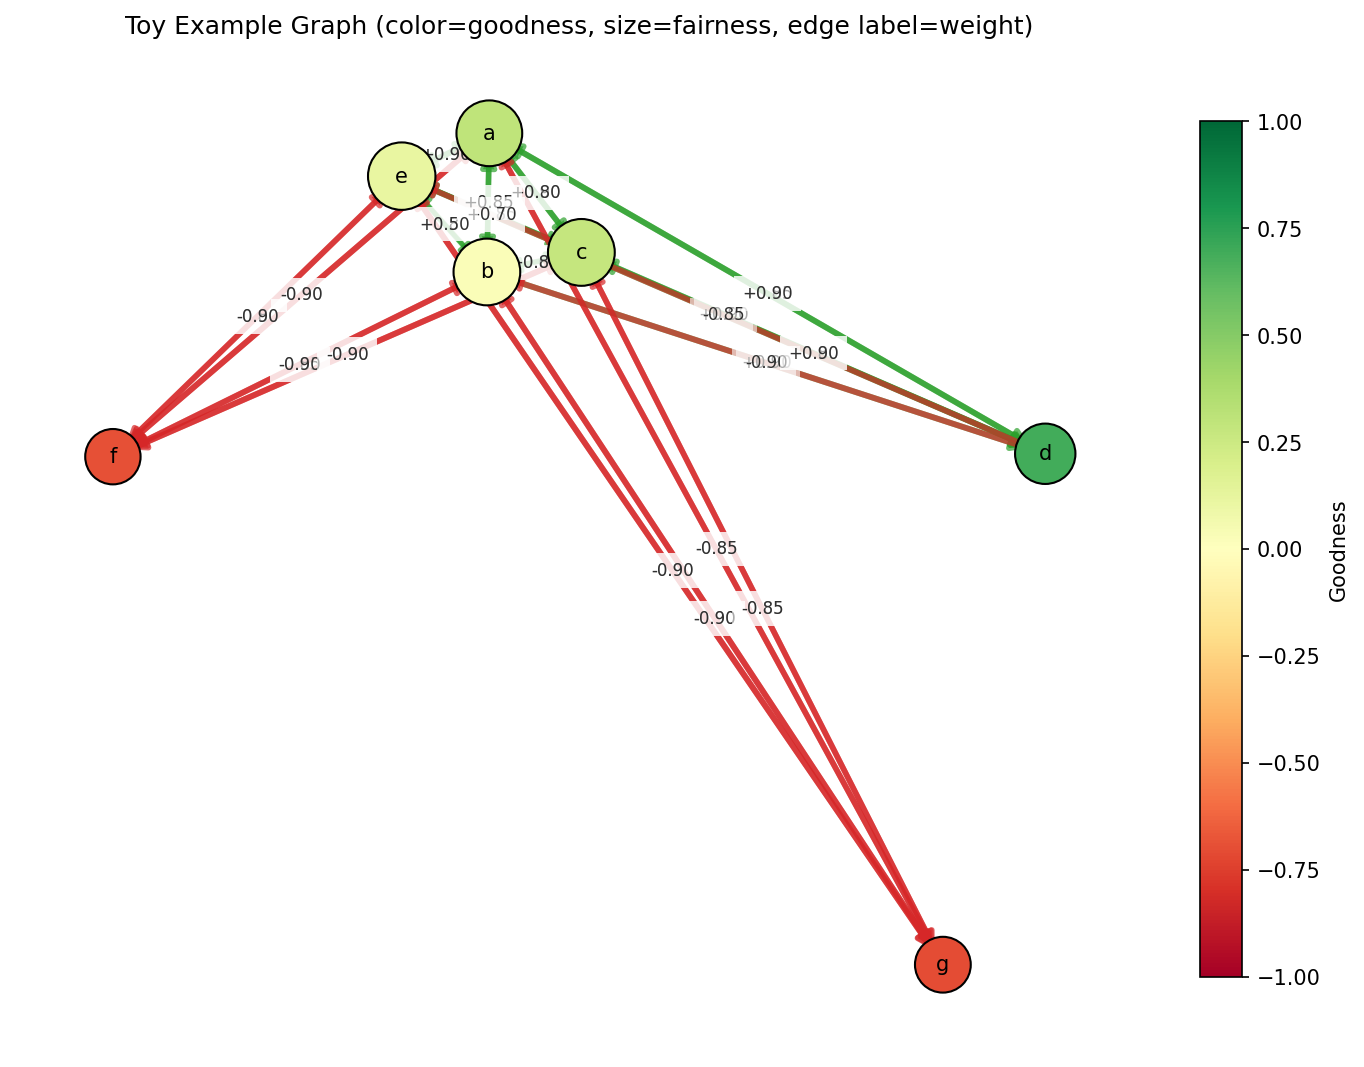
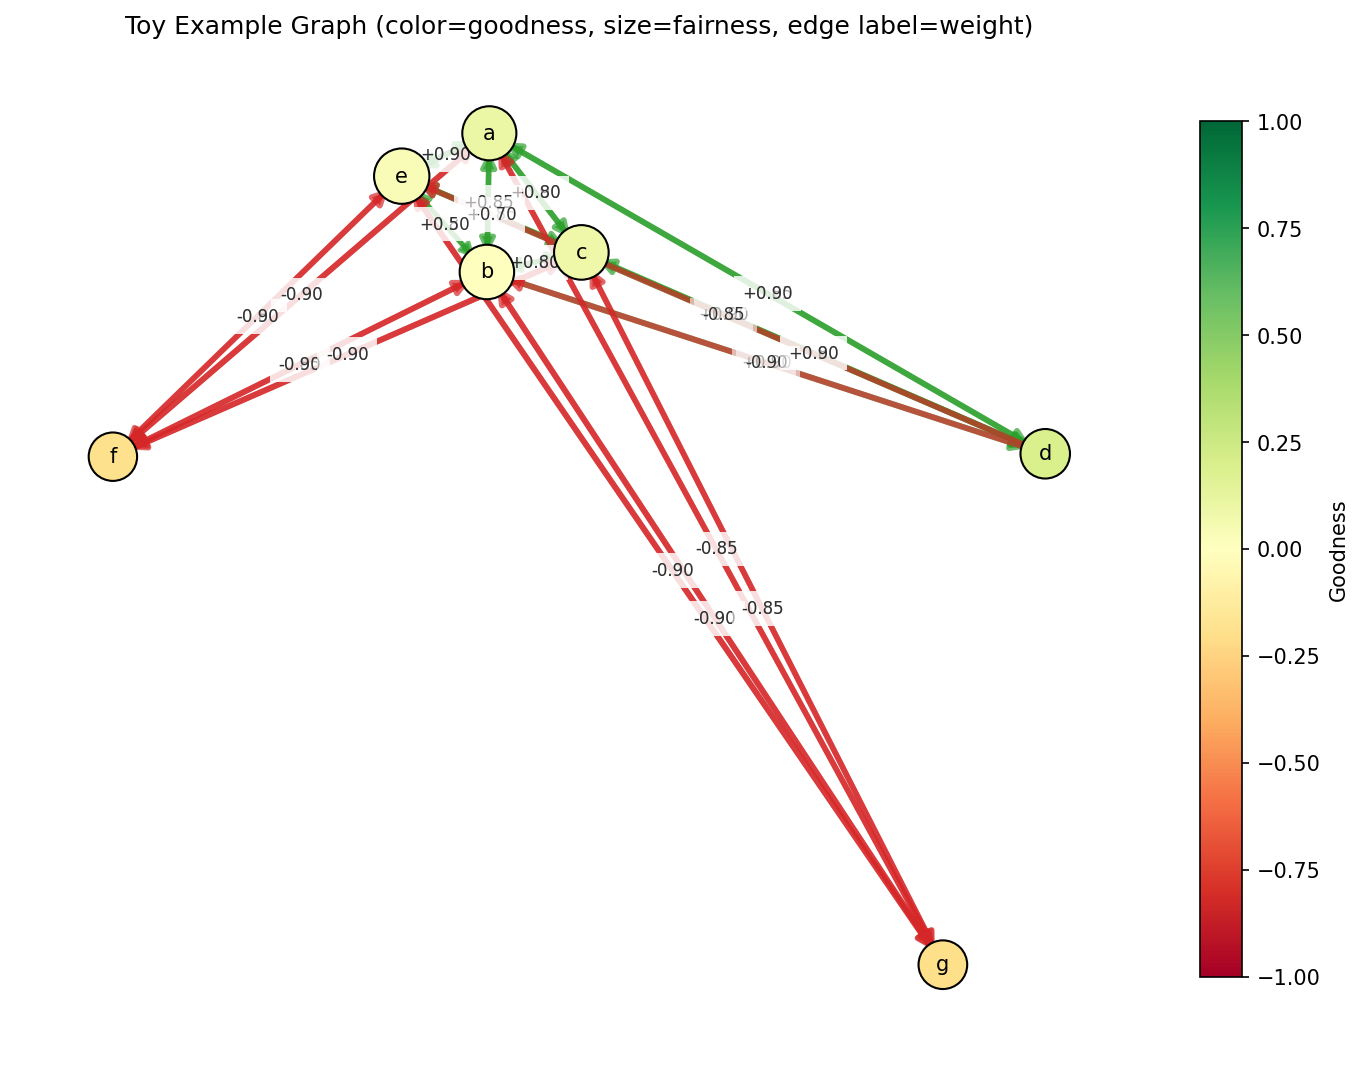
README.mdにweightedアルゴリズム用のtoy exampleの時系列属性を追加し、fga.pyでの可視化機能を強化。テストケースを更新し、時系列ラベルを表示する機能を実装。

diff --git a/fga/fga.py b/fga/fga.py
@@ -123,11 +123,13 @@ def build_toy_visualization_output_path(
     algorithm: str,
     eps: float,
     max_iter: int,
+    temporal: bool = False,
     output_dir: Optional[str] = None,
 ) -> Path:
     """Build an output path for toy graph visualization."""
     base_dir = Path(output_dir) if output_dir is not None else Path(__file__).resolve().parent
-    file_name = f"toy-example_{algorithm}_eps-{eps:g}_max-iter-{max_iter}_graph.png"
+    temporal_suffix = "_temporal" if temporal else ""
+    file_name = f"toy-example_{algorithm}_eps-{eps:g}_max-iter-{max_iter}{temporal_suffix}_graph.png"
     return base_dir / file_name
 
 
@@ -136,6 +138,7 @@ def save_toy_graph_visualization(
     fairness: Dict,
     goodness: Dict,
     output_path: Path,
+    show_time_labels: bool = False,
 ) -> Path:
     """Save a toy-example graph plot with node color=goodness and size=fairness."""
     try:
@@ -180,7 +183,13 @@ def save_toy_graph_visualization(
         edgecolors="black",
     )
     nx.draw_networkx_labels(G, pos, ax=ax, font_size=10)
-    edge_labels = {(u, v): f"{_get_edge_weight(G, u, v):+.2f}" for u, v in G.edges()}
+    if show_time_labels:
+        edge_labels = {
+            (u, v): f"w={_get_edge_weight(G, u, v):+.2f}\nt={_get_edge_time(G, u, v):.2f}"
+            for u, v in G.edges()
+        }
+    else:
+        edge_labels = {(u, v): f"{_get_edge_weight(G, u, v):+.2f}" for u, v in G.edges()}
     nx.draw_networkx_edge_labels(
         G,
         pos,
@@ -194,7 +203,12 @@ def save_toy_graph_visualization(
 
     colorbar = fig.colorbar(node_artist, ax=ax, shrink=0.85)
     colorbar.set_label("Goodness")
-    ax.set_title("Toy Example Graph (color=goodness, size=fairness, edge label=weight)")
+    title = "Toy Example Graph (color=goodness, size=fairness, edge label=weight"
+    if show_time_labels:
+        title += ", time)"
+    else:
+        title += ")"
+    ax.set_title(title)
     ax.axis("off")
 
     fig.savefig(output_path, dpi=150, bbox_inches="tight")
@@ -211,6 +225,20 @@ def _get_edge_weight(G: "nx.DiGraph", u, v) -> float:
         return 0.0
     try:
         return float(weight)
+    except (TypeError, ValueError):
+        return 0.0
+
+
+def _get_edge_time(G: "nx.DiGraph", u, v) -> float:
+    """Return the edge time or 0.0 when the edge or time attribute is missing."""
+    edge_data = G.get_edge_data(u, v)
+    if not edge_data:
+        return 0.0
+    time_value = edge_data.get("time", 0.0)
+    if time_value is None:
+        return 0.0
+    try:
+        return float(time_value)
     except (TypeError, ValueError):
         return 0.0
 
@@ -512,18 +540,9 @@ def load_bitcoin_otc_temporal(path: str) -> "nx.DiGraph":
 # Small worked example (sanity check), loosely in the spirit of Fig. 2(a):
 # a small set of "fair/good" raters and two "unfair, very negative" raters.
 # ---------------------------------------------------------------------------
-def toy_example() -> "nx.DiGraph":
-    """Every node both rates and is rated, so f and g are both meaningful.
-
-    a, b, c, e: mutually consistent, fair raters -> high fairness, high goodness
-    d: rates wildly inconsistently (helps a lot, hurts a lot) -> low fairness,
-       but is itself rated well by the fair nodes -> high goodness
-    f, g: trolls that dump very negative ratings on everyone
-          -> low fairness (deviates from consensus) and very negative goodness
-             (the fair raters, in turn, rate them very negatively)
-    """
-    G = nx.DiGraph()
-    edges = [
+def _toy_example_edges():
+    """Return the canonical toy-example edge list."""
+    return [
         # fair vertices rating each other positively/consistently
         ("a", "c", 0.9), ("b", "c", 0.8), ("e", "c", 0.7),
         ("a", "b", 0.8), ("c", "b", 0.6), ("e", "b", 0.5),
@@ -540,8 +559,35 @@ def toy_example() -> "nx.DiGraph":
         ("f", "a", -0.9), ("f", "b", -0.9), ("f", "c", -0.9), ("f", "e", -0.9),
         ("g", "a", -0.85), ("g", "b", -0.9), ("g", "c", -0.85), ("g", "e", -0.9),
     ]
-    for u, v, w in edges:
+
+
+def toy_example() -> "nx.DiGraph":
+    """Every node both rates and is rated, so f and g are both meaningful.
+
+    a, b, c, e: mutually consistent, fair raters -> high fairness, high goodness
+    d: rates wildly inconsistently (helps a lot, hurts a lot) -> low fairness,
+       but is itself rated well by the fair nodes -> high goodness
+    f, g: trolls that dump very negative ratings on everyone
+          -> low fairness (deviates from consensus) and very negative goodness
+             (the fair raters, in turn, rate them very negatively)
+    """
+    G = nx.DiGraph()
+    for u, v, w in _toy_example_edges():
         G.add_edge(u, v, weight=w)
+    return G
+
+
+def toy_example_temporal() -> "nx.DiGraph":
+    """Toy example with the same ratings plus normalized time attributes.
+
+    The edge order is mapped linearly onto [0, 1] so the toy graph can be used
+    with the temporal evaluation-weighted FGA variant.
+    """
+    G = nx.DiGraph()
+    edges = _toy_example_edges()
+    last_index = max(len(edges) - 1, 1)
+    for index, (u, v, w) in enumerate(edges):
+        G.add_edge(u, v, weight=w, time=index / last_index)
     return G
 
 
@@ -593,7 +639,7 @@ def main():
         print(f"Loaded graph: |V|={G.number_of_nodes()}  |E|={G.number_of_edges()}")
     else:
         print("No --dataset given, running toy example instead.")
-        G = toy_example()
+        G = toy_example_temporal() if args.algorithm == "weighted" else toy_example()
 
     if args.algorithm == "basic":
         fairness, goodness = compute_fairness_goodness(
@@ -619,13 +665,21 @@ def main():
         if args.dataset:
             print("\n--visualize-toy was ignored because --dataset was provided.")
         else:
+            use_temporal_labels = args.algorithm == "weighted"
             output_path = build_toy_visualization_output_path(
                 algorithm=args.algorithm,
                 eps=args.eps,
                 max_iter=args.max_iter,
+                temporal=use_temporal_labels,
                 output_dir=args.output_dir,
             )
-            saved_path = save_toy_graph_visualization(G, fairness, goodness, output_path)
+            saved_path = save_toy_graph_visualization(
+                G,
+                fairness,
+                goodness,
+                output_path,
+                show_time_labels=use_temporal_labels,
+            )
             print(f"\nSaved toy graph visualization to {saved_path}")
 
     print("\nTop nodes by goodness:")

diff --git a/tests/test_fga_loader.py b/tests/test_fga_loader.py
@@ -119,12 +119,13 @@ class TestToyVisualization(unittest.TestCase):
             algorithm="weighted",
             eps=0.001,
             max_iter=50,
+            temporal=True,
             output_dir="plots",
         )
 
         self.assertEqual(
             output_path,
-            Path("plots") / "toy-example_weighted_eps-0.001_max-iter-50_graph.png",
+            Path("plots") / "toy-example_weighted_eps-0.001_max-iter-50_temporal_graph.png",
         )
 
     def test_save_toy_graph_visualization_saves_figure(self):
@@ -143,8 +144,8 @@ class TestToyVisualization(unittest.TestCase):
         matplotlib_module.pyplot = pyplot_module
 
         graph = nx.DiGraph()
-        graph.add_edge("a", "b", weight=0.8)
-        graph.add_edge("b", "a", weight=-0.4)
+        graph.add_edge("a", "b", weight=0.8, time=0.25)
+        graph.add_edge("b", "a", weight=-0.4, time=0.75)
 
         with mock.patch.dict(
             sys.modules,
@@ -162,25 +163,46 @@ class TestToyVisualization(unittest.TestCase):
                                     G=graph,
                                     fairness={"a": 0.7, "b": 0.4},
                                     goodness={"a": 0.5, "b": -0.3},
-                                    output_path=Path("plots") / "toy-example_weighted_eps-0.001_max-iter-50_graph.png",
+                                    output_path=Path("plots") / "toy-example_weighted_eps-0.001_max-iter-50_temporal_graph.png",
+                                    show_time_labels=True,
                                 )
 
-        self.assertEqual(output_path, Path("plots") / "toy-example_weighted_eps-0.001_max-iter-50_graph.png")
+        self.assertEqual(output_path, Path("plots") / "toy-example_weighted_eps-0.001_max-iter-50_temporal_graph.png")
         draw_edges.assert_called_once()
         draw_nodes.assert_called_once()
         draw_labels.assert_called_once()
         draw_edge_labels.assert_called_once()
         self.assertEqual(
             draw_edge_labels.call_args.kwargs["edge_labels"],
-            {("a", "b"): "+0.80", ("b", "a"): "-0.40"},
+            {("a", "b"): "w=+0.80\nt=0.25", ("b", "a"): "w=-0.40\nt=0.75"},
         )
         figure.colorbar.assert_called_once_with(node_artist, ax=axis, shrink=0.85)
         colorbar.set_label.assert_called_once_with("Goodness")
         axis.set_title.assert_called_once_with(
-            "Toy Example Graph (color=goodness, size=fairness, edge label=weight)"
+            "Toy Example Graph (color=goodness, size=fairness, edge label=weight, time)"
         )
         figure.savefig.assert_called_once_with(output_path, dpi=150, bbox_inches="tight")
         pyplot_module.close.assert_called_once_with(figure)
+
+
+class TestToyExampleTemporal(unittest.TestCase):
+    def test_toy_example_temporal_adds_normalized_time_attributes(self):
+        plain_graph = fga.toy_example()
+        temporal_graph = fga.toy_example_temporal()
+
+        self.assertEqual(set(plain_graph.edges()), set(temporal_graph.edges()))
+
+        times = []
+        for _, _, data in temporal_graph.edges(data=True):
+            self.assertIn("time", data)
+            times.append(data["time"])
+
+        self.assertGreater(len(times), 0)
+        self.assertAlmostEqual(min(times), 0.0)
+        self.assertAlmostEqual(max(times), 1.0)
+        for time in times:
+            self.assertGreaterEqual(time, 0.0)
+            self.assertLessEqual(time, 1.0)
 
 
 if __name__ == "__main__":
